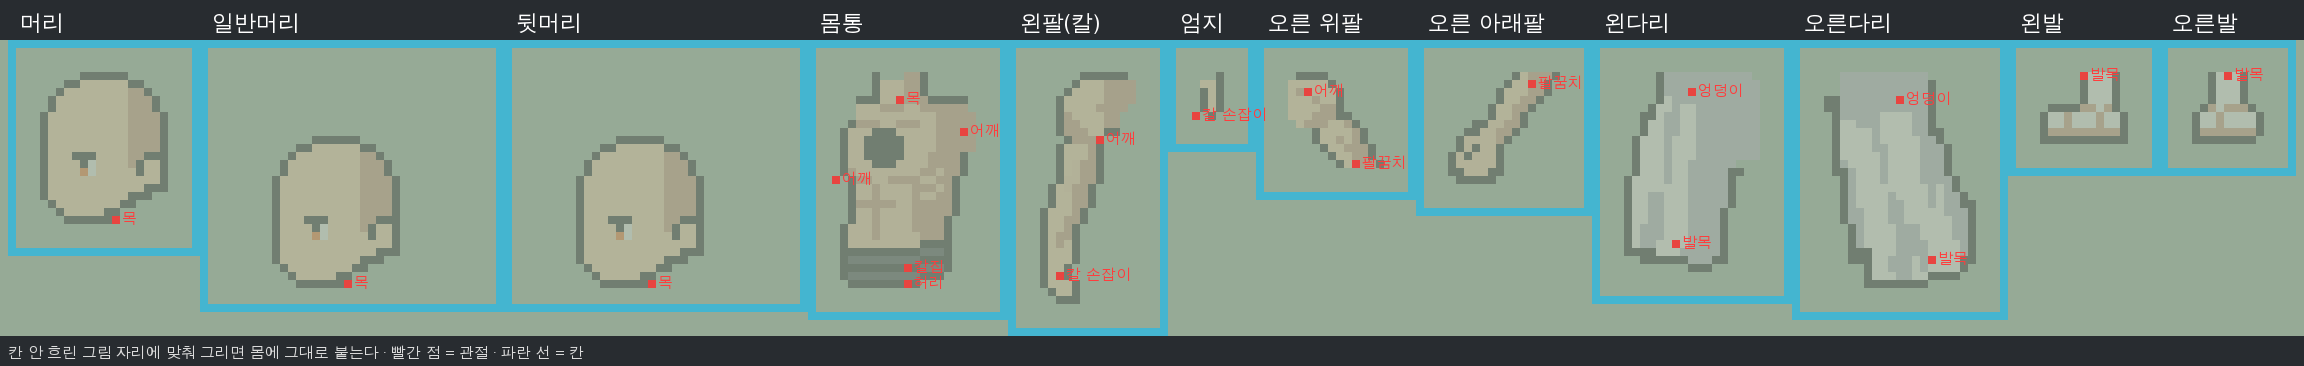
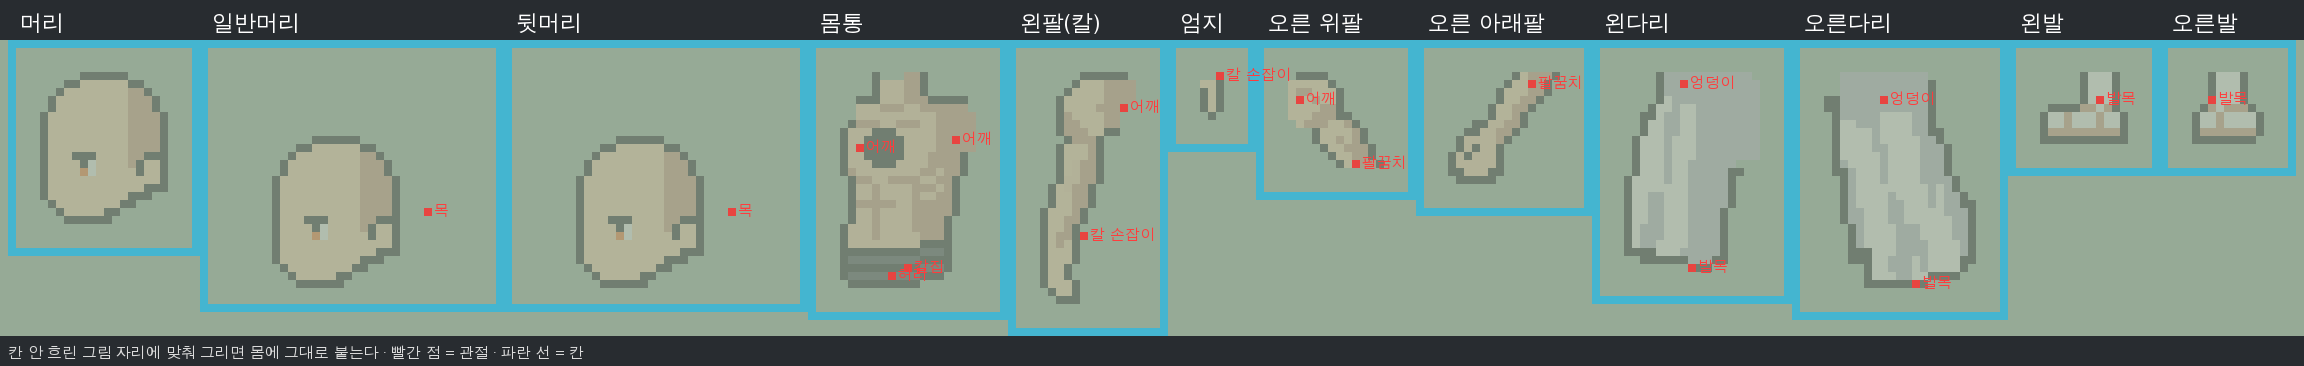
C.151 종이인형: 사용자 편집기 값 데이터 반영, 편집기 서버 저장·칼/칼집 자리 복원
Claude-Session: https://claude.ai/code/session_011W8zFEjKADtTYyQZXReU7r

diff --git a/scripts/rig/editor-page.ts b/scripts/rig/editor-page.ts
@@ -2,13 +2,28 @@
 import { HUMANOID, MOTIONS, boneMatrices, insideFrame, layerMatrix, lookLayers, samplePose, type PartArt, type Pose, type Rig } from '../../src/data/art/rig/pose';
 
 declare const ART_MAP: Record<string, string>;
+/** claude.ai 아티팩트 런타임(있을 때만). db = 편집기 값을 서버에 저장 — 다른 기기·Claude 가 읽는다 */
+type DocRef = { get(): Promise<{ exists: boolean; data(): Record<string, unknown> | undefined }>; set(d: Record<string, unknown>): Promise<void> };
+declare const claude: { use(name: 'db'): Promise<{ doc(path: string): DocRef } | null> } | undefined;
+const DB_DOC = 'rig/editor';
 const K = 6;
 const NAMES: Record<string, string> = { root: '전체', torso: '몸통', head: '머리', arm_L: '왼팔', arm_R: '오른팔', leg_L: '왼다리', leg_R: '오른다리', hair: '일반머리', hair_back: '뒷머리', outer_torso: '겉옷(몸)', outer_arm_L: '겉옷(왼팔)', outer_arm_R: '겉옷(오른팔)', foot_L: '왼발', foot_R: '오른발', weapon: '칼', scabbard: '칼집', thumb_L: '엄지', forearm_R: '오른 아래팔' };
 // 저장 칸 이름은 바꾸지 않는다(바꾸면 사용자가 맞춘 값이 사라진다). 옛 이름(v1~v3)에 남은 값도 읽어 온다
 const STORE = 'bha-rig-editor';
 const LEGACY = ['bha-rig-editor-v3', 'bha-rig-editor-v2', 'bha-rig-editor-v1'];
 /** 저장할 때의 기본 자리(데이터 값). 새 시트로 기본 자리가 바뀌면 '사용자가 옮긴 만큼'만 옮겨 적용한다 */
-type Saved = Partial<Rig> & { baseAt?: Record<string, Record<string, [number, number]>>; slotsEdited?: boolean };
+type Saved = Partial<Rig> & {
+  baseAt?: Record<string, Record<string, [number, number]>>;
+  /** 저장할 때의 외형별 칼·칼집 기본 자리 */
+  baseLooks?: Record<string, Record<string, [number, number]>>;
+  slotsEdited?: boolean;
+};
+const LOOK_PARTS = ['weapon', 'scabbard'] as const;
+const baseLooks = (): Record<string, Record<string, [number, number]>> =>
+  Object.fromEntries(Object.entries(HUMANOID.looks).map(([lid, lk]) => [lid, Object.fromEntries(LOOK_PARTS.flatMap((k) => {
+    const v = lk[k];
+    return typeof v === 'object' ? [[k, [v.at[0], v.at[1]]]] : [];
+  }))]));
 /** 사용자가 앞뒤 순서를 직접 바꿨는가(바꾼 적 없으면 데이터 순서를 따른다 — 새 부위·순서 고침이 들어오게) */
 let slotsEdited = false;
 /** 옛 저장(baseAt 없음)이 기준으로 삼던 기본 자리 — C.151 앞부분의 값 */
@@ -64,7 +79,18 @@ function merge(s: Saved) {
       const cur = lk[k];
       if (typeof cur === 'object' && typeof sv === 'object') shift(lk.body, k, sv.at as [number, number], cur);
     }
+    // 칼·칼집: 외형별로 옮긴 만큼(저장 때 기본 자리가 남아 있는 저장만)
+    for (const k of LOOK_PARTS) {
+      const sv = s.looks[lid]?.[k];
+      const pb = s.baseLooks?.[lid]?.[k];
+      const cur = lk[k];
+      if (typeof cur === 'object' && typeof sv === 'object' && pb) cur.at = [cur.at[0] + sv.at[0] - pb[0], cur.at[1] + sv.at[1] - pb[1]];
+    }
   }
+}
+function resetRig() {
+  const fresh: Rig = JSON.parse(JSON.stringify(HUMANOID));
+  rig.bones = fresh.bones; rig.slots = fresh.slots; rig.bodies = fresh.bodies; rig.looks = fresh.looks; slotsEdited = false;
 }
 try {
   const raw = [STORE, ...LEGACY].map((k) => localStorage.getItem(k)).find((v) => v);
@@ -85,8 +111,18 @@ const [W, H] = rig.canvas;
 stage.style.width = `${W * K}px`;
 stage.style.height = `${H * K}px`;
 
-function save() {
-  try { localStorage.setItem(STORE, JSON.stringify({ bones: rig.bones, slots: rig.slots, bodies: rig.bodies, looks: rig.looks, baseAt: baseAt(), slotsEdited })); } catch { /* 무시 */ }
+let dbRef: DocRef | null = null;
+let dbTimer = 0;
+const state = () => JSON.stringify({ bones: rig.bones, slots: rig.slots, bodies: rig.bodies, looks: rig.looks, baseAt: baseAt(), baseLooks: baseLooks(), slotsEdited });
+function save(user = true) {
+  const st = state();
+  try { localStorage.setItem(STORE, st); } catch { /* 무시 */ }
+  // 사용자가 바꾼 것만 서버에 (잠깐 모아서 한 번)
+  if (user && dbRef) {
+    clearTimeout(dbTimer);
+    const ref = dbRef;
+    dbTimer = window.setTimeout(() => { ref.set({ json: st, savedAt: Date.now() }).then(() => setSync('서버 저장됨'), () => setSync('서버 저장 실패 — 이 기기에만 저장')); }, 600);
+  }
   const body = rig.looks[look]!.body;
   out.value = JSON.stringify({
     bones: rig.bones.map((b) => ({ id: b.id, parent: b.parent, pivot: b.pivot })),
@@ -186,7 +222,7 @@ function nudge(dx: number, dy: number) {
 document.querySelectorAll<HTMLButtonElement>('[data-look]').forEach((b) => b.onclick = () => {
   look = b.dataset.look!;
   document.querySelectorAll('[data-look]').forEach((x) => x.classList.toggle('on', x === b));
-  buildChips(); save(); draw();
+  buildChips(); save(false); draw();
 });
 document.querySelectorAll<HTMLButtonElement>('[data-mode]').forEach((b) => b.onclick = () => {
   mode = b.dataset.mode as 'pivot' | 'part';
@@ -207,8 +243,7 @@ document.querySelectorAll<HTMLButtonElement>('[data-m]').forEach((b) => b.onclic
 $('front').onclick = () => { slotsEdited = true; const i = rig.slots.findIndex((s) => s.id === sel); if (i >= 0 && i < rig.slots.length - 1) { const [s] = rig.slots.splice(i, 1); rig.slots.splice(i + 1, 0, s!); save(); draw(); } };
 $('back').onclick = () => { slotsEdited = true; const i = rig.slots.findIndex((s) => s.id === sel); if (i > 0) { const [s] = rig.slots.splice(i, 1); rig.slots.splice(i - 1, 0, s!); save(); draw(); } };
 $('reset').onclick = () => {
-  const fresh: Rig = JSON.parse(JSON.stringify(HUMANOID));
-  rig.bones = fresh.bones; rig.slots = fresh.slots; rig.bodies = fresh.bodies; rig.looks = fresh.looks; slotsEdited = false;
+  resetRig();
   try { for (const k of [STORE, ...LEGACY]) localStorage.removeItem(k); } catch { /* 무시 */ }
   save(); buildChips(); draw();
 };
@@ -238,4 +273,27 @@ function tick(now: number) {
   last = now;
   requestAnimationFrame(tick);
 }
-buildChips(); save(); draw(); requestAnimationFrame(tick);
+function setSync(t: string) { const e = document.getElementById('sync'); if (e) e.textContent = t; }
+buildChips(); save(false); draw(); requestAnimationFrame(tick);
+// 서버 값이 있으면 그걸 쓴다(어느 기기에서 열어도 같은 값). 없으면 이 기기 값을 한 번 올린다
+void (async () => {
+  if (typeof claude === 'undefined') return setSync('이 기기에만 저장');
+  const db = await claude.use('db').catch(() => null);
+  if (!db) return setSync('이 기기에만 저장(서버 연결 안 됨)');
+  const ref = db.doc(DB_DOC);
+  try {
+    const snap = await ref.get();
+    const json = snap.exists ? snap.data()?.json : undefined;
+    if (typeof json === 'string') {
+      resetRig();
+      merge(JSON.parse(json) as Saved);
+      dbRef = ref;
+      buildChips(); save(false); draw();
+      setSync('서버 값 불러옴');
+    } else {
+      dbRef = ref;
+      await ref.set({ json: state(), savedAt: Date.now() });
+      setSync('이 기기 값을 서버에 올림');
+    }
+  } catch { setSync('서버 읽기 실패 — 이 기기에만 저장'); }
+})();

diff --git a/scripts/rig/apply_editor.py b/scripts/rig/apply_editor.py
@@ -2,6 +2,7 @@
 """관절 편집기(시험 페이지)에서 '값 복사'한 내용을 게임 뼈대 데이터에 넣는다 (GDD 96장).
 
 사용: python3 scripts/rig/apply_editor.py '<복사한 JSON>'   (또는 파일 경로)
+     편집기 서버 저장(아티팩트 db 문서 rig/editor — {"json": "<전체 상태>"})도 그대로 받는다: 모든 몸·외형의 자리, 관절, 앞뒤 순서를 한 번에 넣는다.
 바뀌는 것: src/data/art/rig/humanoid.json 의 bones[].pivot, slots 순서, bodies.<몸>.<부위>.at, looks.<외형>.hair·hair_back.at
 칼·칼집 자리(weapon·scabbard)는 모든 외형 공통이라 받은 값을 모든 외형에 넣는다. 쉬는 각도(restRot)는 건드리지 않는다.
 """
@@ -16,6 +17,39 @@ RIG_JSON = os.path.join(ROOT, 'src', 'data', 'art', 'rig', 'humanoid.json')
 arg = sys.argv[1]
 data = json.load(open(arg, encoding='utf-8')) if os.path.exists(arg) else json.loads(arg)
 rig = json.load(open(RIG_JSON, encoding='utf-8'))
+data = data.get('data', data)
+if isinstance(data.get('json'), str):
+    data = json.loads(data['json'])
+if 'bodies' in data:
+    # 전체 상태: 관절·앞뒤 순서·모든 몸 부위 자리·외형 층 자리
+    piv = {b['id']: b['pivot'] for b in data['bones']}
+    for b in rig['bones']:
+        if b['id'] in piv:
+            b['pivot'] = piv[b['id']]
+    if data.get('slotsEdited'):
+        order = [x['id'] for x in data['slots']]
+        by = {s['id']: s for s in rig['slots']}
+        slots = [by[i] for i in order if i in by] + [s for s in rig['slots'] if s['id'] not in order]
+        # 겉옷 층은 늘 제 부위 바로 위(지금은 비어 있어 그림은 안 바뀜)
+        for o, part in (('outer_torso', 'torso'), ('outer_arm_L', 'arm_L'), ('outer_arm_R', 'arm_R')):
+            ids = [s['id'] for s in slots]
+            if o in ids and part in ids:
+                so = slots.pop(ids.index(o))
+                slots.insert([s['id'] for s in slots].index(part) + 1, so)
+        rig['slots'] = slots
+    for body, parts in data['bodies'].items():
+        for k, v in parts.items():
+            if body in rig['bodies'] and k in rig['bodies'][body]:
+                rig['bodies'][body][k]['at'] = v['at']
+    for lid, lk in data.get('looks', {}).items():
+        for k, v in lk.items():
+            if lid in rig['looks'] and isinstance(v, dict) and isinstance(rig['looks'][lid].get(k), dict):
+                rig['looks'][lid][k]['at'] = v['at']
+    sys.path.insert(0, os.path.dirname(os.path.abspath(__file__)))
+    from feet_weapon import dump  # noqa: E402
+    dump(rig)
+    print('적용(전체 상태): 관절', len(piv), '몸', len(data['bodies']), '외형', len(data.get('looks', {})))
+    sys.exit(0)
 piv = {b['id']: b['pivot'] for b in data['bones']}
 for b in rig['bones']:
     if b['id'] in piv:

diff --git a/docs/GDD.md b/docs/GDD.md
@@ -3930,5 +3930,9 @@ data/
    - 외형 `arrancar-base` = 알몸 몸(`bare`, 대머리·칼·칼집). 옛 옷 입은 아란칼은 `arrancar-coat`. 알몸의 다리·발도 `bare/` 로 복사해 혼자 서는 몸으로.
    - 고정: `src/data/art/rig/arrancar-base.lock.json`(관절·쉬는 각도·앞뒤 순서·부위 자리). 도구가 값을 바꾸면 테스트가 막는다 — 사용자가 고친 값이면 고정 파일도 같이 고친다.
    - 가이드 시트: `scripts/rig/guide.py` → `docs/design/user-art/arrancar-base-guide/`(guide.png 1배 그리기용, guide-x8.png 이름·관절 표시, guide.json). 부위마다 칸 하나(여유 3칸), 칸 안에 기본형 흐린 그림 + 관절점(반투명). 칸 안 같은 자리에 그리면 `import_cut.py --guide` 가 칸 → 부위·자리로 바로 넣는다(빈 칸은 그대로, 뒷머리 칸이 비면 뒷머리 없음).
+17. **편집기 값 = 게임 값 (사용자 2026-10-28 원문 "지금 내가 저장해둔 대로 안 되고 또 네 맘대로 임의대로 바뀌어 있는데 뭐임?")**
+   - 원인: 편집기 값이 사용자 기기 브라우저에만 저장돼 Claude 가 못 읽었고(시험 페이지·고정 파일은 데이터 값), 칼·칼집 자리는 편집기를 다시 열 때 불러오지도 않았다.
+   - 고침: 편집기가 값을 아티팩트 서버 저장(db 문서 `rig/editor`, 전체 상태 JSON)에도 저장 → Claude 가 읽어 `apply_editor.py` 로 데이터에 넣는다. 서버 값이 있으면 어느 기기에서 열어도 그 값. 칼·칼집 자리도 저장·복원.
+   - 사용자 값(관절 전부·앞뒤 순서·아란칼(옷) 부위 자리)을 데이터에 넣고 고정 파일·가이드 시트를 그 값으로 다시 만들었다. 겉옷 층은 제 부위 바로 위로만 옮김(비어 있어 그림 변화 없음).
 - **구현 (C.151)**: `src/data/art/rig/pose.ts`(자세 뽑기·뼈 행렬·외형 층·데이터 점검), `src/ui/bha/paperdoll.ts`(그리기 + 동작 시계: 반복 동작, 한 번 동작 후 복귀, 타격 콜백), `room.css` `.bha-doll`. 시험 테스트 `tests/paperdoll.test.ts`. 게임 화면에는 아직 안 붙였다.
 

diff --git a/docs/dev-log.md b/docs/dev-log.md
@@ -1397,6 +1397,7 @@ C.0 ~ C.59 는 `docs/dev-log-archive.md` 로 옮겼다(2026-10-20, 사용량 절
 - 맨몸 기본형 몸 `bare`·외형 `bare-base`(사용자 몸통·엄지·양팔, 머리·다리·발은 아란칼 것 빌림), 시험 페이지·편집기에 맨몸 추가. 뒷머리는 시트에 있을 때만(GDD 96장 13).
 - 공격2 칼날 하늘 방향(동작 `flip` — 칼 그림을 칼날 축으로 뒤집기, `pose.ts` `flipMatrix`·`layerMatrix`), 맨몸 체형 교체 + 오른팔 위팔·아래팔 분리, 오른팔 팔꿈치 뼈 `forearm_R`, 편집기 내보내기·`apply_editor.py` 에 칼·칼집 자리 추가(GDD 96장 14).
 - 아란칼 기본형 = 알몸(`arrancar-base` → 몸 `bare`, 옛 것 `arrancar-coat`), 고정 파일 `arrancar-base.lock.json`, 알몸 가이드 시트 `scripts/rig/guide.py` + `import_cut.py --guide`(GDD 96장 16).
+- 편집기 서버 저장(아티팩트 db `rig/editor`) + 칼·칼집 자리 복원, `apply_editor.py` 전체 상태 받기, 사용자 편집기 값 데이터 반영·고정 파일·가이드 재생성(GDD 96장 17).
 - **테스트** `tests/paperdoll.test.ts` 27개(부위 그림 크기 = 파일 크기 확인 추가, `tests/helpers/pngSize.ts`).
 - 이 브랜치에 있던 옛 홈 물건 32칸 작업(C.113 번호, main 에 안 들어감)은 main 쪽으로 되돌렸다. 도구 `scripts/depixel/`(도트 되돌리기·긴 쪽 N칸·색 수 제한·재질 2톤·줄 밀기)·`scripts/sprite-rig/`(옛 시험)는 남김.
 
